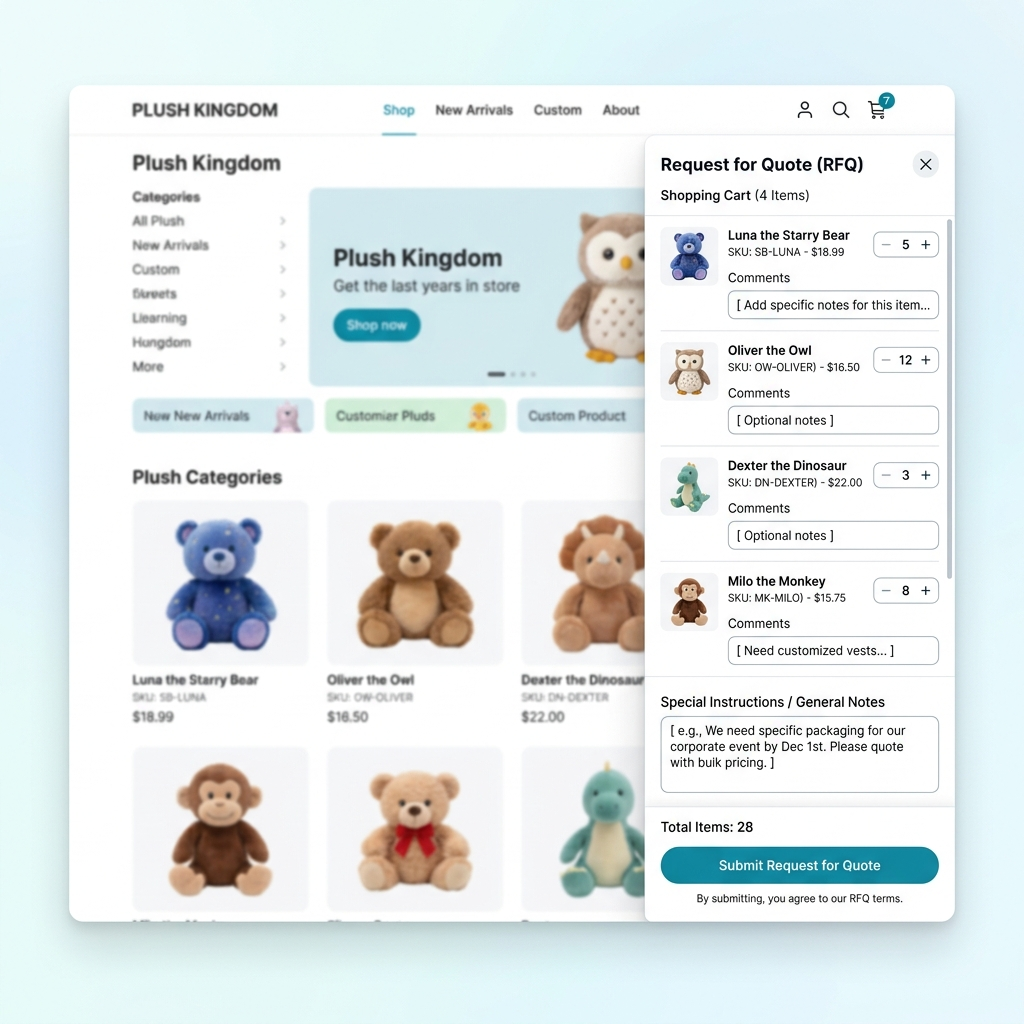
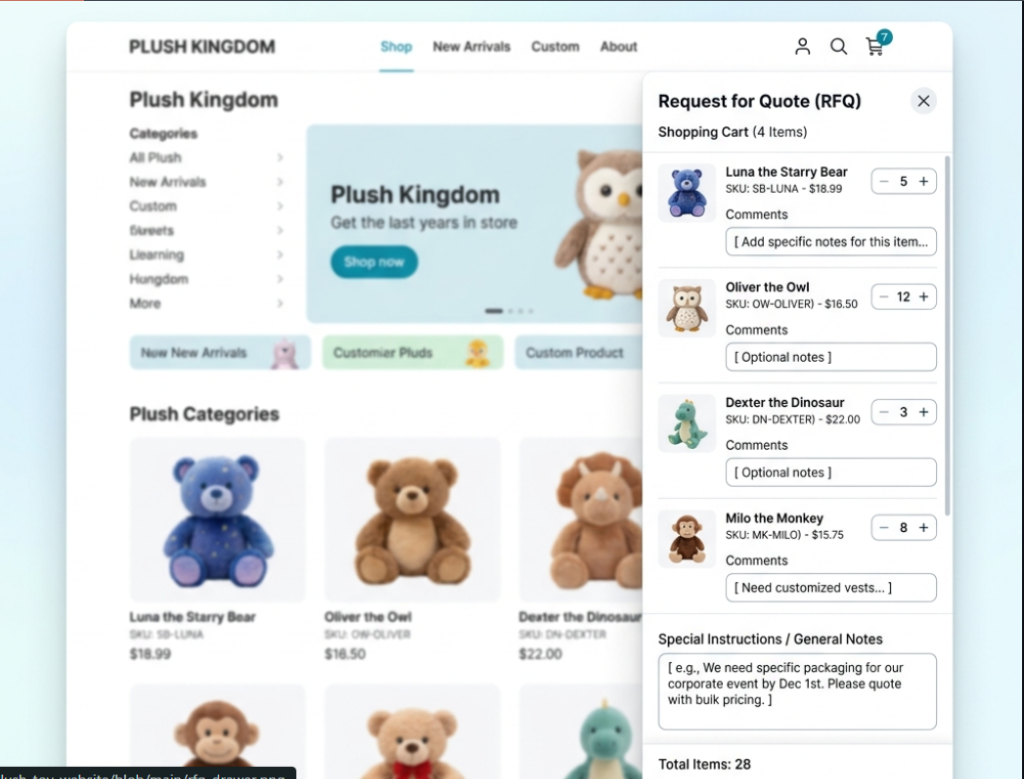
Update RFQ drawer preview image in README and pre-populate demo items in cart

diff --git a/app.js b/app.js
@@ -17,13 +17,26 @@ document.addEventListener("DOMContentLoaded", () => {
   const ITEMS_PER_PAGE = 9;
   
   // Cart state loaded from localStorage and migrated to object schema
-  let rawCart = JSON.parse(localStorage.getItem("namaste_export_cart")) || [];
-  let cart = rawCart.map(item => {
-    if (typeof item === 'number') {
-      return { id: item, qty: 10, notes: "" };
-    }
-    return item;
-  });
+  let cart;
+  const localCartData = localStorage.getItem("namaste_export_cart");
+  if (localCartData) {
+    let rawCart = JSON.parse(localCartData) || [];
+    cart = rawCart.map(item => {
+      if (typeof item === 'number') {
+        return { id: item, qty: 10, notes: "" };
+      }
+      return item;
+    });
+  } else {
+    // Pre-populate with demo items so the client sees the gorgeous RFQ drawer in action immediately!
+    cart = [
+      { id: 1, qty: 5, notes: "" },
+      { id: 2, qty: 12, notes: "" },
+      { id: 3, qty: 3, notes: "" },
+      { id: 4, qty: 8, notes: "" }
+    ];
+    localStorage.setItem("namaste_export_cart", JSON.stringify(cart));
+  }
 
   // ==========================================
   // DOM ELEMENTS

diff --git a/index.html b/index.html
@@ -975,6 +975,6 @@
 
   <!-- LOAD APPLICATION SCRIPTS -->
   <script src="data.js"></script>
-  <script src="app.js?v=3"></script>
+  <script src="app.js?v=4"></script>
 </body>
 </html>